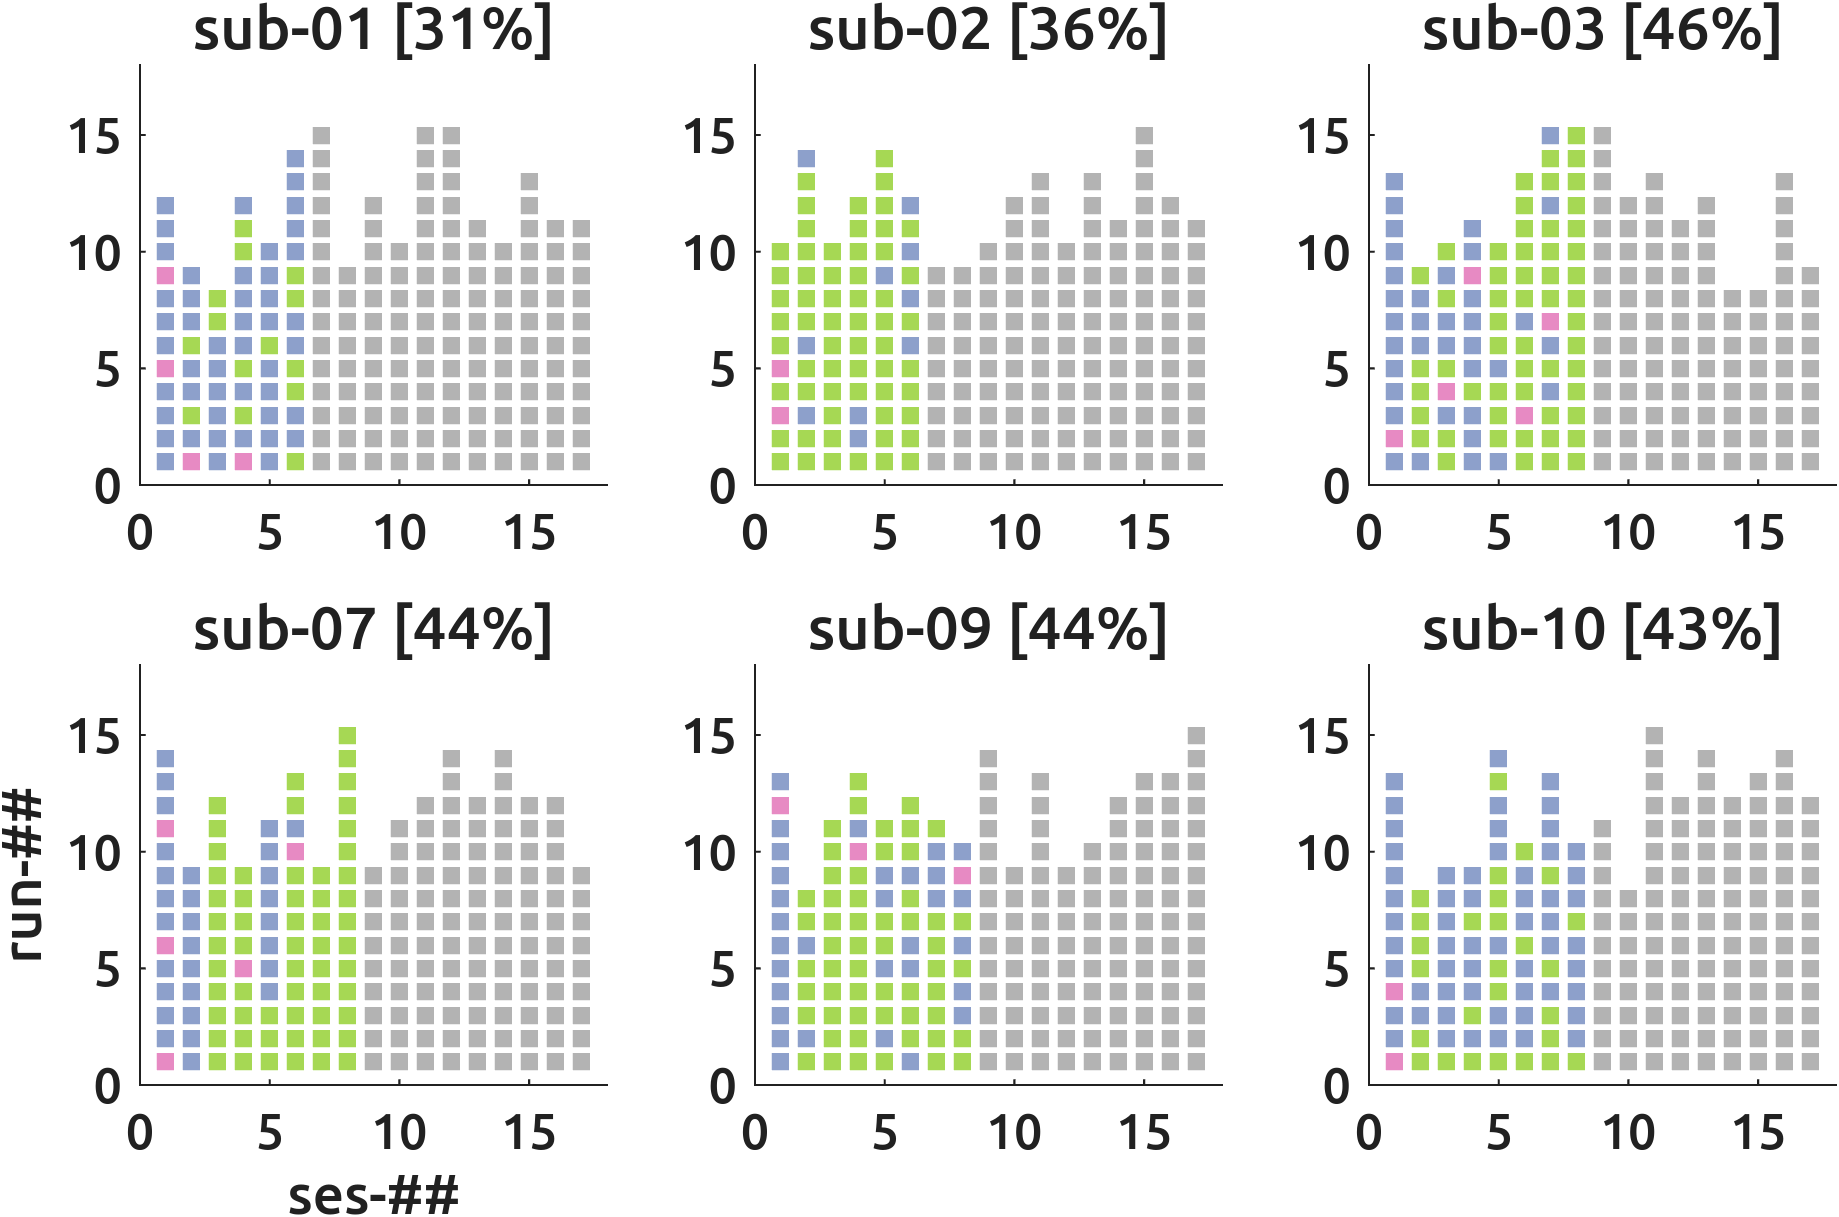
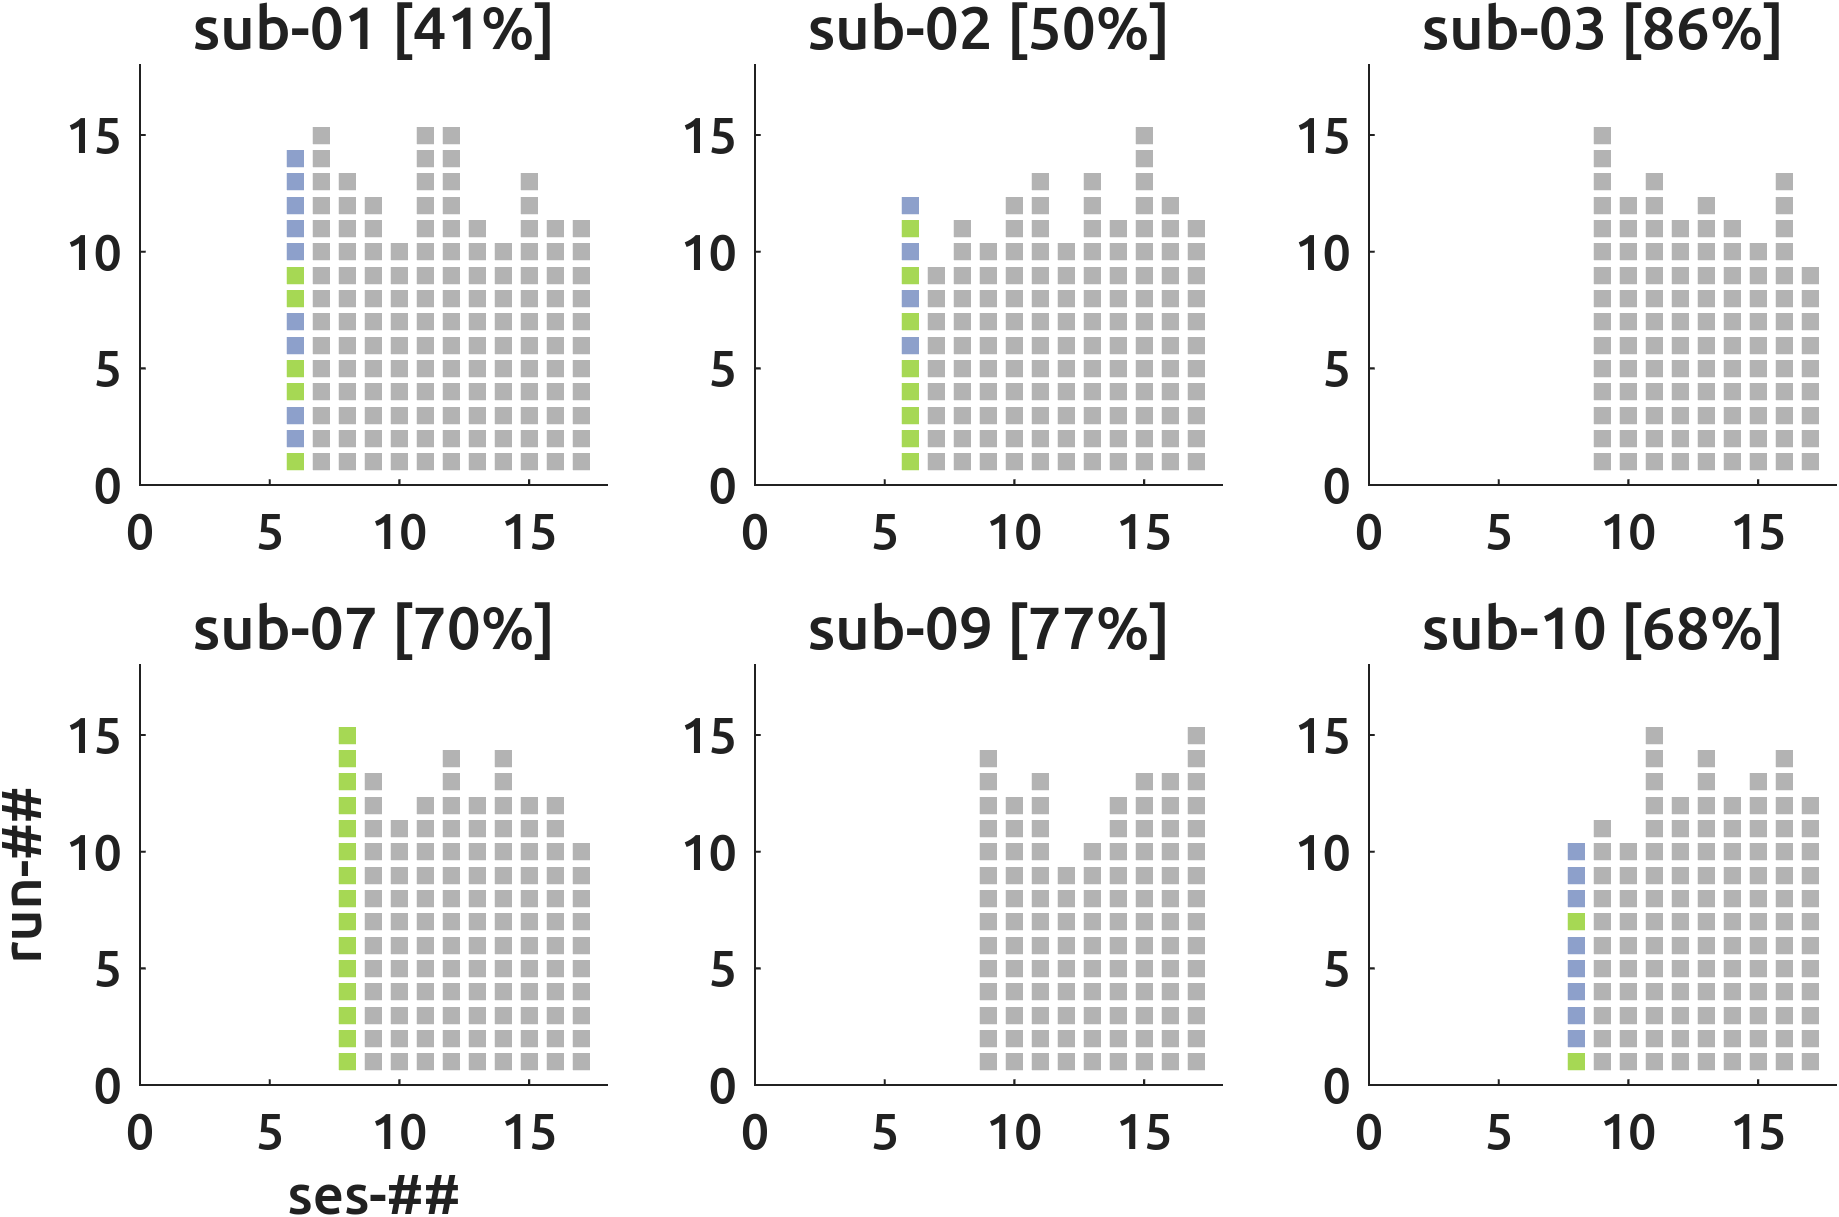
MAF_IMPORT:autoupdate

diff --git a/index.md b/index.md
@@ -5,20 +5,10 @@ nav_order: 0
 ---
 
 # Overview of the current progress
-Here, the current (20-Jul-2026 23:15:23 `Europe/Berlin`) progress of the fMRI+ data acquisition of the [ManyMusic](https://manymusic.net/) project is shared. Please direct any questions to [Dr. Seung-Goo Kim](mailto:seung-goo.kim@ae.mpg.de).
+Here, the current (30-Jul-2026 17:47:58 `Europe/Berlin`) progress of the fMRI+ data acquisition of the [ManyMusic](https://manymusic.net/) project is shared. Please direct any questions to [Dr. Seung-Goo Kim](mailto:seung-goo.kim@ae.mpg.de).
 
 ## Current acquisition
 
 ![acquisition](figs/run-prog.png)
 <br><small>Each box represents a run. *GREY*: Yet to be done. *RED*: With major issues like a wrong song was played or a wrong MR sequence was used. Needs to be rerun. *BLUE*: With minor issues like the flatlined EyeLink or headmotion>1mm. No need to rerun? *GREEN*: All good (but possibly with "normal" artefacts.</small>
-
-## Goddness grid
-
-![goodness](figs/isgood.png)
-<br><small>fdMax: framewise displacement max (mm). fdMed: FD median. fdStd: FD standard deviation. resp: respiration belt. puls: pulse-oximeter. var: variance. in-gems: in-scanner-GEMS. pupil: in-scanner EyeLink pupil. liking: post-scanning liking rating. out-gems: post-scanning-GEMS.</small>
-
-## Overall emotional responses
-![emo-ridge](figs/emo-ridges.png)
-
-<small>Overall ratings pooled across all subjects. White bands mark 95%-confidence intervals. White circles mark arithmetic means (of ordinal variables! yes, I know). Top: in-scanner; Bottom: out-scaner. *jam*=Jamendo, *boh*=Bohemian, *app*=Apple. </small>
 

diff --git a/pages/topup/sub-07.md b/pages/topup/sub-07.md
@@ -5,6 +5,33 @@ nav_order: 7
 parent: topup
 ---
 # topup: sub-07
+### 20260730T1006:sub-07_ses-09
+![slices_run-01](figs/sub-07_ses-09_run-01.png)
+
+![slices_run-02](figs/sub-07_ses-09_run-02.png)
+
+![slices_run-03](figs/sub-07_ses-09_run-03.png)
+
+![slices_run-04](figs/sub-07_ses-09_run-04.png)
+
+![slices_run-05](figs/sub-07_ses-09_run-05.png)
+
+![slices_run-06](figs/sub-07_ses-09_run-06.png)
+
+![slices_run-07](figs/sub-07_ses-09_run-07.png)
+
+![slices_run-08](figs/sub-07_ses-09_run-08.png)
+
+![slices_run-09](figs/sub-07_ses-09_run-09.png)
+
+![slices_run-10](figs/sub-07_ses-09_run-10.png)
+
+![slices_run-11](figs/sub-07_ses-09_run-11.png)
+
+![slices_run-12](figs/sub-07_ses-09_run-12.png)
+
+![slices_run-13](figs/sub-07_ses-09_run-13.png)
+
 ### 20260716T1004:sub-07_ses-08
 ![slices_run-01](figs/sub-07_ses-08_run-01.png)
 

diff --git a/pages/motion/sub-07.md b/pages/motion/sub-07.md
@@ -5,6 +5,9 @@ nav_order: 7
 parent: motion
 ---
 # headmotion: sub-07
+### 20260730T1006:sub-07_ses-09
+![headmotion](figs/sub-07_ses-09.png)
+
 ### 20260716T1004:sub-07_ses-08
 ![headmotion](figs/sub-07_ses-08.png)
 
